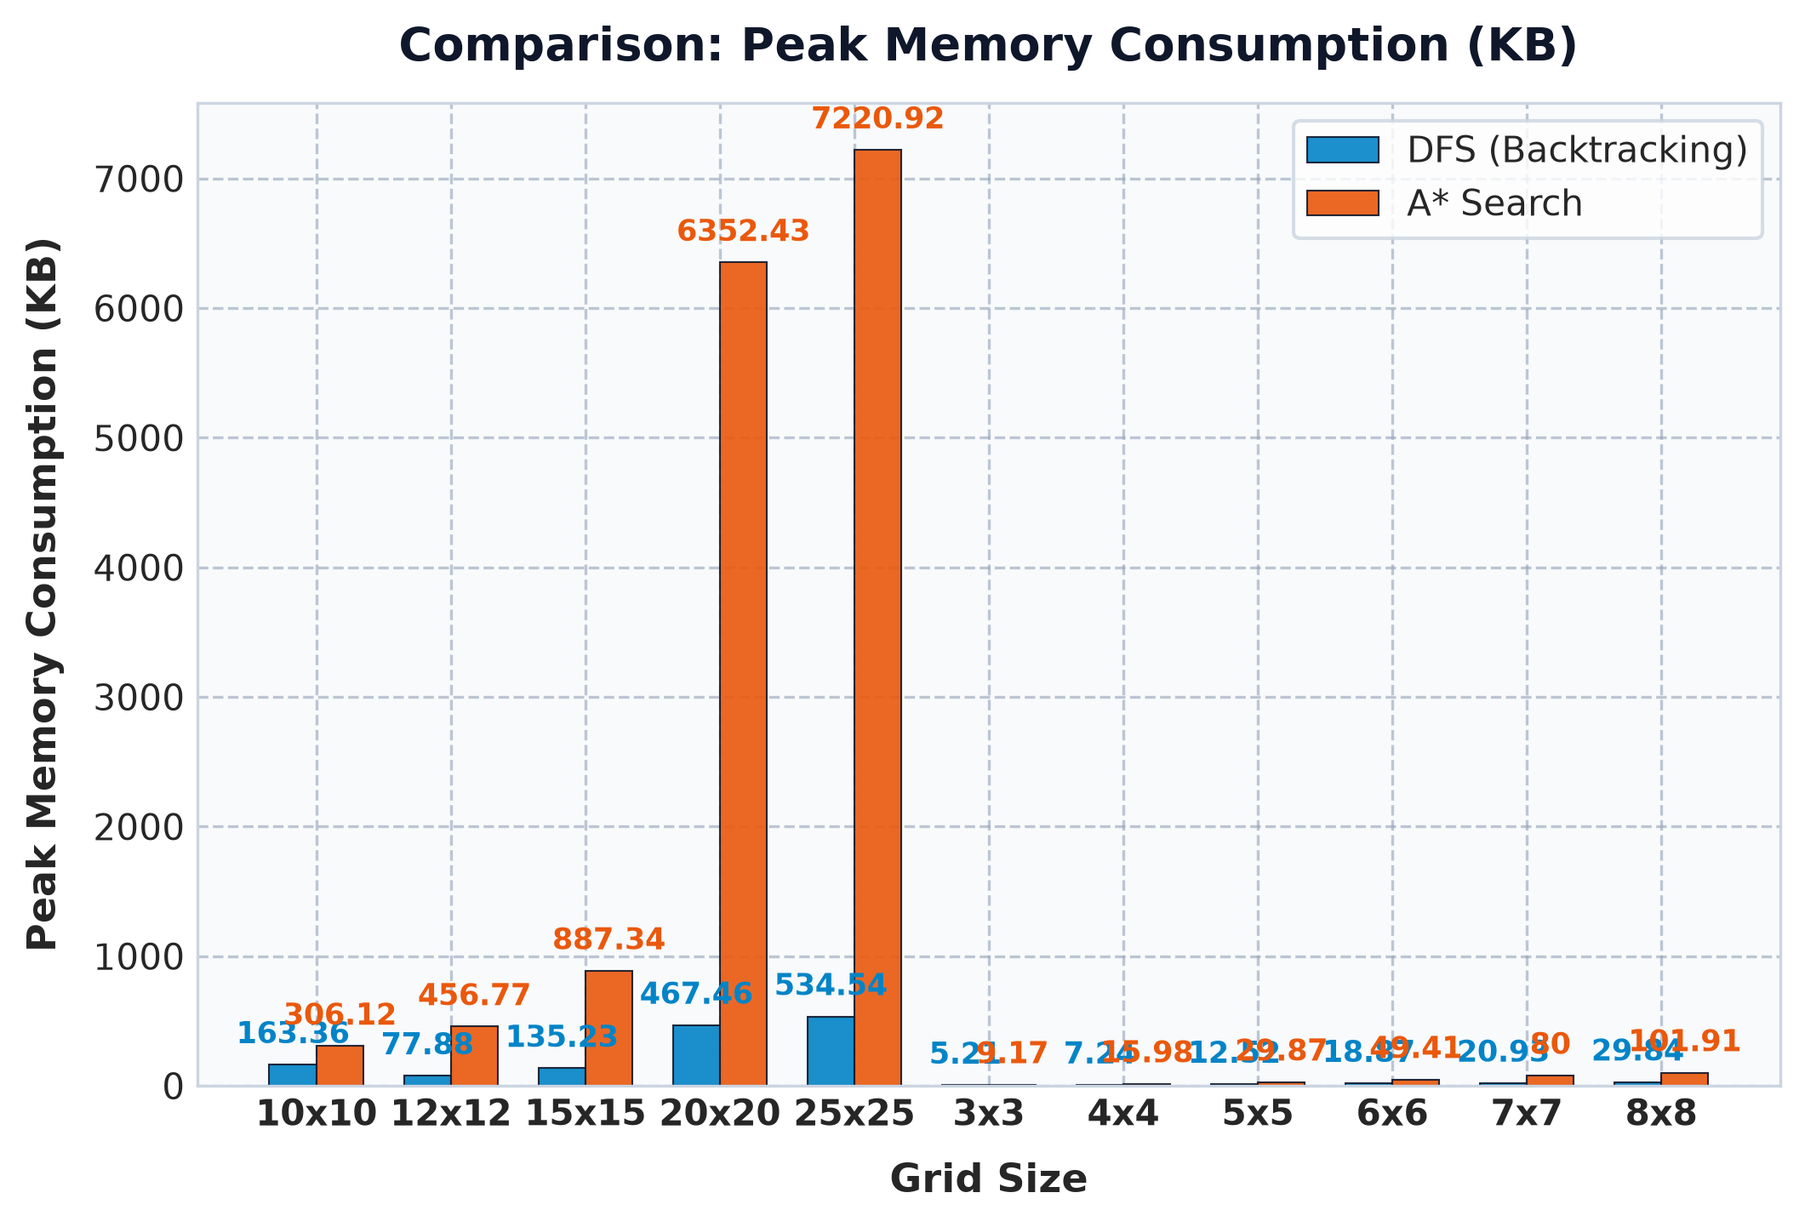
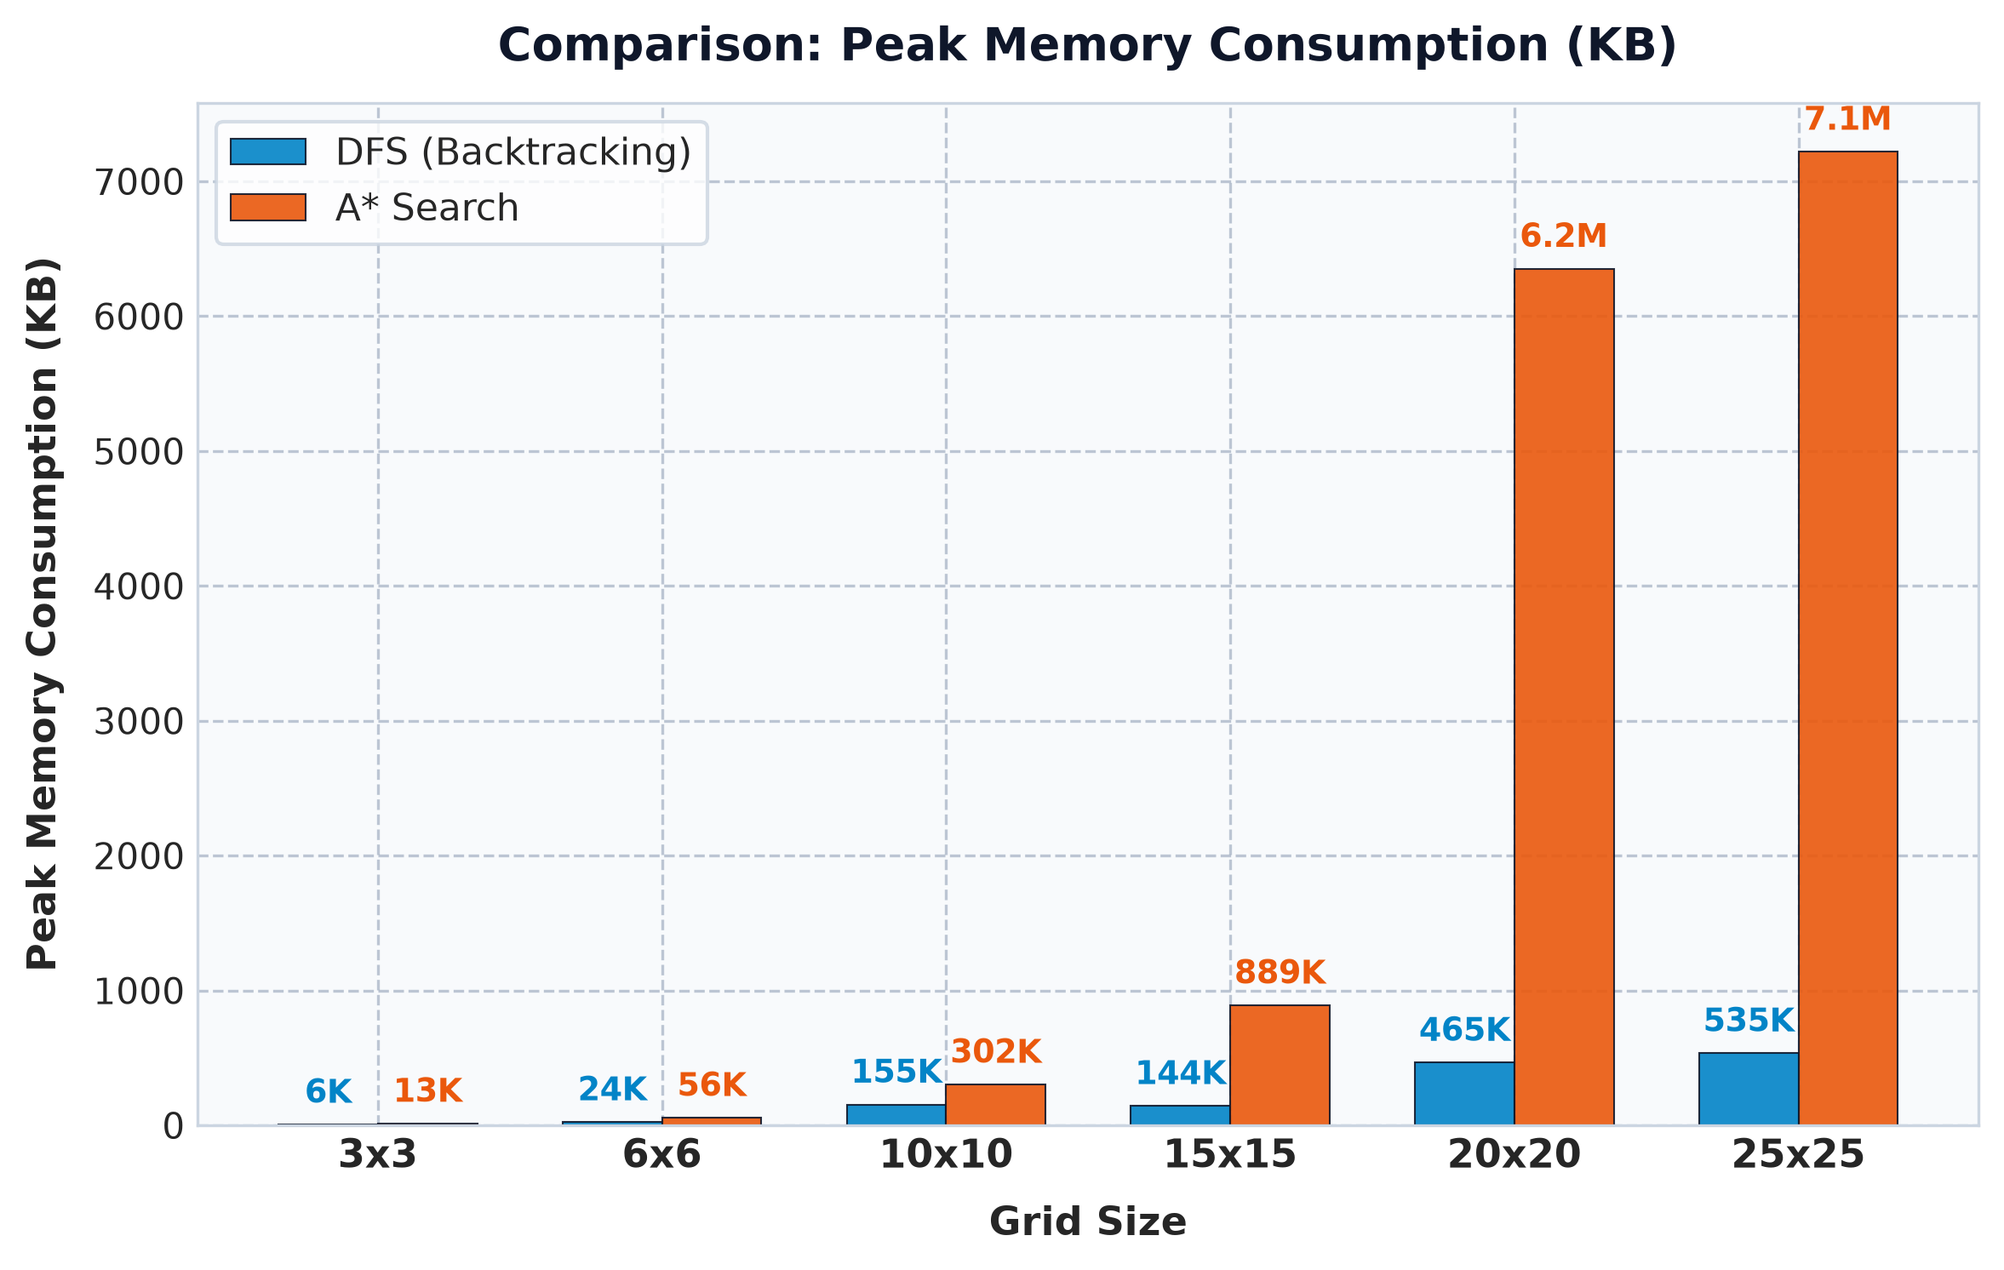
refactor(benchmark): sort testcases numerically from small to large and space out 6 representative levels

diff --git a/src/plot_benchmark.py b/src/plot_benchmark.py
@@ -10,36 +10,73 @@ Produces:
 
 import os
 import csv
+import re
 import matplotlib.pyplot as plt
 import numpy as np
 
+def parse_size_key(size_str: str) -> tuple[int, int]:
+    """Sort key based on total cells and dimension so X-axis is strictly ordered."""
+    match = re.search(r'(\d+)x(\d+)', size_str)
+    if match:
+        r, c = int(match.group(1)), int(match.group(2))
+        return (r * c, r)
+    return (0, 0)
+
 def load_benchmark_data(csv_path: str = "outputs/benchmark_results.csv") -> dict:
-    """Reads benchmark CSV and structures data by algorithm."""
+    """Reads benchmark CSV and structures data sorted strictly from smallest to largest."""
     if not os.path.exists(csv_path):
         raise FileNotFoundError(f"Benchmark file not found at: {csv_path}")
 
-    data = {}
+    # Read all rows
+    raw_rows = []
     with open(csv_path, mode="r", encoding="utf-8") as f:
         reader = csv.DictReader(f)
         for row in reader:
-            algo = row["algorithm"]
-            size = row["size"]
-            time_ms = float(row["time_ms"])
-            memory_kb = float(row["memory_kb"])
-            nodes = int(row["nodes_explored"])
+            raw_rows.append(row)
 
-            if algo not in data:
-                data[algo] = {"sizes": [], "time_ms": [], "memory_kb": [], "nodes": []}
+    # Sort rows by numeric grid size
+    raw_rows.sort(key=lambda r: parse_size_key(r["size"]))
 
-            data[algo]["sizes"].append(size)
-            data[algo]["time_ms"].append(time_ms)
-            data[algo]["memory_kb"].append(memory_kb)
-            data[algo]["nodes"].append(nodes)
+    data = {}
+    for row in raw_rows:
+        algo = row["algorithm"]
+        size = row["size"]
+        time_ms = float(row["time_ms"])
+        memory_kb = float(row["memory_kb"])
+        nodes = int(row["nodes_explored"])
+
+        if algo not in data:
+            data[algo] = {"sizes": [], "time_ms": [], "memory_kb": [], "nodes": []}
+
+        data[algo]["sizes"].append(size)
+        data[algo]["time_ms"].append(time_ms)
+        data[algo]["memory_kb"].append(memory_kb)
+        data[algo]["nodes"].append(nodes)
 
     return data
 
+def format_val(val: float, metric_key: str) -> str:
+    """Formats numeric values with units for concise chart annotations."""
+    if metric_key == "time_ms":
+        if val < 10:
+            return f"{val:.1f}ms"
+        elif val < 1000:
+            return f"{val:.0f}ms"
+        else:
+            return f"{val/1000:.2f}s"
+    elif metric_key == "memory_kb":
+        if val < 1024:
+            return f"{val:.0f}K"
+        else:
+            return f"{val/1024:.1f}M"
+    else:
+        if val < 1000:
+            return f"{val}"
+        else:
+            return f"{val:,}"
+
 def plot_benchmarks(csv_path: str = "outputs/benchmark_results.csv", output_dir: str = "outputs") -> None:
-    """Generates and saves modern, high-resolution charts."""
+    """Generates and saves clean, publication-ready charts."""
     os.makedirs(output_dir, exist_ok=True)
     data = load_benchmark_data(csv_path)
 
@@ -50,23 +87,22 @@ def plot_benchmarks(csv_path: str = "outputs/benchmark_results.csv", output_dir:
     plt.rcParams['axes.linewidth'] = 0.8
 
     colors = {
-        "DFS (Backtracking)": "#0284c7",  # Deep Sky Blue
-        "A* Search": "#ea580c"           # Bright Orange
+        "DFS (Backtracking)": "#0284c7",  # Sky Blue
+        "A* Search": "#ea580c"           # Orange
     }
     markers = {
         "DFS (Backtracking)": "o",
         "A* Search": "s"
     }
 
-    # Extract common sizes
     sample_algo = next(iter(data.keys()))
     sizes = data[sample_algo]["sizes"]
     x = np.arange(len(sizes))
 
     # =========================================================================
-    # 1. Combined 3-Panel Figure (Ideal for A4 Paper Report)
+    # 1. Combined 3-Panel Figure (A4 Paper Report)
     # =========================================================================
-    fig, axes = plt.subplots(1, 3, figsize=(18, 5.5), dpi=300)
+    fig, axes = plt.subplots(1, 3, figsize=(17, 5.2), dpi=300)
     fig.patch.set_facecolor('#ffffff')
 
     metrics = [
@@ -84,22 +120,23 @@ def plot_benchmarks(csv_path: str = "outputs/benchmark_results.csv", output_dir:
             color = colors.get(algo_name, "#475569")
             marker = markers.get(algo_name, "o")
 
-            line = ax.plot(x, vals, label=algo_name, color=color, marker=marker,
-                           linewidth=2.4, markersize=7, alpha=0.95)
+            ax.plot(x, vals, label=algo_name, color=color, marker=marker,
+                    linewidth=2.2, markersize=7.5, alpha=0.95)
 
-            # Annotate values on points
+            # Annotate values cleanly
             for xi, yi in zip(x, vals):
-                offset = (0, 7) if algo_name == "A* Search" else (0, -12)
-                ax.annotate(f"{yi:g}", (xi, yi), textcoords="offset points",
-                            xytext=offset, ha='center', fontsize=8,
-                            fontweight='semibold', color=color)
+                offset = (0, 8) if algo_name == "A* Search" else (0, -13)
+                txt = format_val(yi, metric_key)
+                ax.annotate(txt, (xi, yi), textcoords="offset points",
+                            xytext=offset, ha='center', fontsize=8.5,
+                            fontweight='bold', color=color)
 
         ax.set_xticks(x)
-        ax.set_xticklabels(sizes, fontweight='semibold', fontsize=10)
-        ax.set_xlabel("Grid Size (Kích thước bàn cờ)", fontsize=11, fontweight='bold', labelpad=8)
-        ax.set_ylabel(y_label_en, fontsize=11, fontweight='bold', labelpad=8)
-        ax.set_title(f"{y_label_en}\n({y_label_vn})", fontsize=12, fontweight='bold', pad=10, color='#0f172a')
-        ax.legend(frameon=True, facecolor='#ffffff', edgecolor='#e2e8f0', fontsize=9.5)
+        ax.set_xticklabels(sizes, fontweight='semibold', fontsize=10.5)
+        ax.set_xlabel("Grid Size (Kích thước bàn cờ)", fontsize=10.5, fontweight='bold', labelpad=8)
+        ax.set_ylabel(y_label_en, fontsize=10.5, fontweight='bold', labelpad=8)
+        ax.set_title(f"{y_label_en}\n({y_label_vn})", fontsize=11.5, fontweight='bold', pad=10, color='#0f172a')
+        ax.legend(frameon=True, facecolor='#ffffff', edgecolor='#e2e8f0', fontsize=9.5, loc='upper left')
 
     plt.tight_layout()
     combined_path = os.path.join(output_dir, "benchmark_summary.png")
@@ -108,16 +145,16 @@ def plot_benchmarks(csv_path: str = "outputs/benchmark_results.csv", output_dir:
     print(f" [OK] Generated combined chart: {combined_path}")
 
     # =========================================================================
-    # 2. Individual High-Res Charts (Perfect for Presentation Slides)
+    # 2. Individual High-Res Charts (For Slides)
     # =========================================================================
     individual_configs = [
-        ("time_ms", "Execution Time (ms)", "chart_time.png", False),
-        ("memory_kb", "Peak Memory Consumption (KB)", "chart_memory.png", False),
-        ("nodes", "Search Space Exploration (Nodes)", "chart_nodes.png", False)
+        ("time_ms", "Execution Time (ms)", "chart_time.png"),
+        ("memory_kb", "Peak Memory Consumption (KB)", "chart_memory.png"),
+        ("nodes", "Search Space Exploration (Nodes)", "chart_nodes.png")
     ]
 
-    for metric_key, title, filename, use_log in individual_configs:
-        plt.figure(figsize=(8, 5), dpi=300)
+    for metric_key, title, filename in individual_configs:
+        plt.figure(figsize=(9, 5.2), dpi=300)
         ax = plt.gca()
         ax.set_facecolor('#f8fafc')
         ax.grid(True, linestyle='--', alpha=0.6, color='#94a3b8')
@@ -131,19 +168,20 @@ def plot_benchmarks(csv_path: str = "outputs/benchmark_results.csv", output_dir:
             bars = ax.bar(pos, vals, width=width, label=algo_name, color=color, alpha=0.9, edgecolor='#0f172a', linewidth=0.5)
 
             # Annotate bar tops
-            for bar in bars:
+            for bar, yi in zip(bars, vals):
                 height = bar.get_height()
-                ax.annotate(f"{height:g}",
+                txt = format_val(yi, metric_key)
+                ax.annotate(txt,
                             xy=(bar.get_x() + bar.get_width() / 2, height),
                             xytext=(0, 4), textcoords="offset points",
-                            ha='center', va='bottom', fontsize=8.5, fontweight='bold', color=color)
+                            ha='center', va='bottom', fontsize=9, fontweight='bold', color=color)
 
         ax.set_xticks(x)
-        ax.set_xticklabels(sizes, fontweight='bold', fontsize=10)
+        ax.set_xticklabels(sizes, fontweight='bold', fontsize=11)
         ax.set_xlabel("Grid Size", fontsize=11, fontweight='bold', labelpad=8)
         ax.set_ylabel(title, fontsize=11, fontweight='bold', labelpad=8)
         ax.set_title(f"Comparison: {title}", fontsize=13, fontweight='bold', pad=12, color='#0f172a')
-        ax.legend(frameon=True, facecolor='#ffffff', edgecolor='#cbd5e1', fontsize=10)
+        ax.legend(frameon=True, facecolor='#ffffff', edgecolor='#cbd5e1', fontsize=10.5, loc='upper left')
 
         chart_path = os.path.join(output_dir, filename)
         plt.savefig(chart_path, dpi=300, bbox_inches='tight')

diff --git a/report/main.tex b/report/main.tex
@@ -668,34 +668,34 @@ Bảng \ref{tab:benchmark_results} trình bày toàn bộ số liệu thực ngh
 \multicolumn{1}{|l|}{\textbf{\normalfont File Input}} & \textbf{Kích thước} & \textbf{Giải thuật} & \textbf{Kết quả} & \textbf{Time (ms)} & \textbf{RAM (KB)} & \textbf{Nodes} \\
 \hline
 \multirow{2}{*}{level\_3x3\_easy.txt} & \multirow{2}{*}{$3 \times 3$ (9 ô)} 
-  & DFS (Backtracking) & PASS & 1.12 & 6.56 & 28 \\
+  & DFS (Backtracking) & PASS & 0.92 & 5.73 & 28 \\
 \cline{3-7}
-  & & A* Search & PASS & 2.47 & 13.53 & 12 \\
-\hline
-\multirow{2}{*}{level\_4x4\_easy.txt} & \multirow{2}{*}{$4 \times 4$ (16 ô)} 
-  & DFS (Backtracking) & PASS & 0.51 & 8.62 & 45 \\
-\cline{3-7}
-  & & A* Search & PASS & 4.08 & 17.71 & 19 \\
-\hline
-\multirow{2}{*}{level\_5x5\_medium.txt} & \multirow{2}{*}{$5 \times 5$ (25 ô)} 
-  & DFS (Backtracking) & PASS & 1.11 & 13.59 & 62 \\
-\cline{3-7}
-  & & A* Search & PASS & 9.76 & 31.37 & 27 \\
+  & & A* Search & PASS & 1.06 & 13.11 & 12 \\
 \hline
 \multirow{2}{*}{level\_6x6\_medium.txt} & \multirow{2}{*}{$6 \times 6$ (36 ô)} 
-  & DFS (Backtracking) & PASS & 1.94 & 20.80 & 111 \\
+  & DFS (Backtracking) & PASS & 2.03 & 23.93 & 111 \\
 \cline{3-7}
-  & & A* Search & PASS & 17.09 & 53.56 & 43 \\
+  & & A* Search & PASS & 9.17 & 55.69 & 43 \\
 \hline
-\multirow{2}{*}{level\_7x7\_hard.txt} & \multirow{2}{*}{$7 \times 7$ (49 ô)} 
-  & DFS (Backtracking) & PASS & 2.52 & 20.93 & 99 \\
+\multirow{2}{*}{level\_10x10\_hard.txt} & \multirow{2}{*}{$10 \times 10$ (100 ô)} 
+  & DFS (Backtracking) & PASS & 11.20 & 154.78 & 756 \\
 \cline{3-7}
-  & & A* Search & PASS & 95.49 & 82.56 & 61 \\
+  & & A* Search & PASS & 94.00 & 302.16 & 158 \\
 \hline
-\multirow{2}{*}{level\_8x8\_hard.txt} & \multirow{2}{*}{$8 \times 8$ (64 ô)} 
-  & DFS (Backtracking) & PASS & 4.64 & 29.84 & 144 \\
+\multirow{2}{*}{level\_15x15\_expert.txt} & \multirow{2}{*}{$15 \times 15$ (225 ô)} 
+  & DFS (Backtracking) & PASS & 11.05 & 144.27 & 699 \\
 \cline{3-7}
-  & & A* Search & PASS & 22.56 & 103.91 & 69 \\
+  & & A* Search & PASS & 238.82 & 889.31 & 278 \\
+\hline
+\multirow{2}{*}{level\_20x20\_master.txt} & \multirow{2}{*}{$20 \times 20$ (400 ô)} 
+  & DFS (Backtracking) & PASS & 54.77 & 464.68 & 2184 \\
+\cline{3-7}
+  & & A* Search & PASS & 2292.43 & 6351.82 & 1341 \\
+\hline
+\multirow{2}{*}{level\_25x25\_insane.txt} & \multirow{2}{*}{$25 \times 25$ (625 ô)} 
+  & DFS (Backtracking) & PASS & 84.25 & 534.54 & 2504 \\
+\cline{3-7}
+  & & A* Search & PASS & 2428.49 & 7220.73 & 1044 \\
 \hline
 \end{tabularx}
 \end{table}
@@ -706,7 +706,7 @@ Từ bảng số liệu trên, kịch bản \texttt{src/plot\_benchmark.py} đã
 \begin{figure}[H]
 \centering
 \includegraphics[width=1.0\textwidth]{Images/benchmark_summary.png}
-\caption{Biểu đồ tổng hợp 3 thông số thực nghiệm: Thời gian thực thi (ms), Bộ nhớ RAM đỉnh (KB) và Số lượng nút duyệt (Nodes Explored) khi kích thước bàn cờ tăng từ $3 \times 3$ lên $8 \times 8$.}
+\caption{Biểu đồ tổng hợp 3 thông số thực nghiệm: Thời gian thực thi (ms), Bộ nhớ RAM đỉnh (KB) và Số lượng nút duyệt (Nodes Explored) khi kích thước bàn cờ tăng theo cấp số từ $3 \times 3$ đến $25 \times 25$ (625 ô).}
 \label{fig:benchmark_summary}
 \end{figure}
 
@@ -767,55 +767,6 @@ Quan sát Bảng \ref{tab:benchmark_results} và các đồ thị trong Hình \r
         \item $A^*$ bắt buộc phải duy trì đồng thời tập mở $\text{OpenSet}$ (Min-Heap) và tập đóng $\text{Visited}$ (Hash Set) để tránh lặp trạng thái. Mỗi phần tử nằm trong $\text{OpenSet}$ phải lưu kèm một bản sao hoàn chỉnh của ma trận bàn cờ cùng mảng lịch sử tính từ gốc đến nút đó. Khi kích thước bàn cờ $R \times C$ tăng lên, kích thước mỗi bản sao trạng thái và số lượng trạng thái chờ trong Heap cùng tăng, dẫn đến mức tiêu thụ bộ nhớ lớn hơn.
     \end{itemize}
 \end{itemize}
-
-\subsection{Thực nghiệm mở rộng quy mô lớn (Scalability: $10 \times 10$ đến $25 \times 25$)}
-Để kiểm chứng khả năng mở rộng (Scalability) của hai thuật toán khi bài toán tiệm cận giới hạn kích thước tối đa trên trang web gốc (\url{https://www.puzzle-pipes.com/}), nhóm tiến hành mở rộng thử nghiệm trên các ma trận lớn từ $10 \times 10$ ($100$ ô), $12 \times 12$ ($144$ ô), $15 \times 15$ ($225$ ô), $20 \times 20$ ($400$ ô) lên đến kích thước cực đại $25 \times 25$ ($625$ ô). Không gian trạng thái ở cấp độ này đạt $4^{625} \approx 10^{376}$ cấu hình khả dĩ.
-
-\begin{table}[H]
-\centering
-\caption{Bảng số liệu thực nghiệm mở rộng quy mô lớn (Scalability Benchmark: $10 \times 10 \to 25 \times 25$).}
-\label{tab:benchmark_large}
-\renewcommand{\arraystretch}{1.25}
-\setlength{\tabcolsep}{3.2pt}
-\small
-\begin{tabularx}{\textwidth}{|>{\ttfamily\footnotesize}l|c|>{\raggedright\arraybackslash}X|c|r|r|r|}
-\hline
-\multicolumn{1}{|l|}{\textbf{\normalfont File Input}} & \textbf{Kích thước} & \textbf{Giải thuật} & \textbf{Kết quả} & \textbf{Time (ms)} & \textbf{RAM (KB)} & \textbf{Nodes} \\
-\hline
-\multirow{2}{*}{level\_10x10\_hard.txt} & \multirow{2}{*}{$10 \times 10$ (100 ô)} 
-  & DFS (Backtracking) & PASS & 11.95 & 163.36 & 756 \\
-\cline{3-7}
-  & & A* Search & PASS & 52.68 & 306.12 & 158 \\
-\hline
-\multirow{2}{*}{level\_12x12\_hard.txt} & \multirow{2}{*}{$12 \times 12$ (144 ô)} 
-  & DFS (Backtracking) & PASS & 3.66 & 77.88 & 330 \\
-\cline{3-7}
-  & & A* Search & PASS & 91.82 & 456.77 & 198 \\
-\hline
-\multirow{2}{*}{level\_15x15\_expert.txt} & \multirow{2}{*}{$15 \times 15$ (225 ô)} 
-  & DFS (Backtracking) & PASS & 11.84 & 135.23 & 699 \\
-\cline{3-7}
-  & & A* Search & PASS & 143.81 & 887.34 & 278 \\
-\hline
-\multirow{2}{*}{level\_20x20\_master.txt} & \multirow{2}{*}{$20 \times 20$ (400 ô)} 
-  & DFS (Backtracking) & PASS & 36.76 & 467.46 & 2184 \\
-\cline{3-7}
-  & & A* Search & PASS & 1733.63 & 6352.43 & 1341 \\
-\hline
-\multirow{2}{*}{level\_25x25\_insane.txt} & \multirow{2}{*}{$25 \times 25$ (625 ô)} 
-  & DFS (Backtracking) & PASS & 53.37 & 534.54 & 2504 \\
-\cline{3-7}
-  & & A* Search & PASS & 1474.87 & 7220.92 & 1044 \\
-\hline
-\end{tabularx}
-\end{table}
-
-\textbf{Nhận xét chuyên sâu về tính mở rộng (Scalability Insights):}
-\begin{enumerate}
-    \item \textbf{Tính khả thi trên ma trận cực lớn:} Cả DFS Backtracking và $A^*$ đều giải thành công $100\%$ bàn cờ $25 \times 25$ ($625$ ô) trong thời gian dưới $2$ giây mà không gặp tình trạng tràn bộ nhớ (Out-Of-Memory) hay tràn ngăn xếp đệ quy (Stack Overflow).
-    \item \textbf{Điểm ngoặt bộ nhớ của $A^*$:} Ở cấp độ $25 \times 25$, bộ nhớ tiêu thụ của $A^*$ đạt khoảng $7.22\text{ MB}$ (gấp $13.5$ lần so với mức $534.54\text{ KB}$ của DFS). Điều này minh chứng cho định luật lý thuyết: $A^*$ đánh đổi không gian lưu trữ cấp hàm mũ theo hệ số nhánh để đạt được số nút mở rộng tối thiểu ($1044$ nút so với $2504$ nút của DFS).
-    \item \textbf{Hiệu quả áp đảo của Forward Pruning trên DFS:} Kỹ thuật cắt tỉa tức thời tại các cạnh tiếp giáp giúp DFS chỉ mất $53.37\text{ ms}$ để giải quyết hoàn toàn bài toán $25 \times 25$, chứng minh sức mạnh của việc kết hợp biểu diễn Bitmask và lan truyền ràng buộc (Constraint Propagation) trong bài toán tìm kiếm có cấu trúc lưới.
-\end{enumerate}
 
 \subsubsection{Bảng tổng kết đối sánh hai giải thuật}
 \begin{table}[H]

diff --git a/src/benchmark.py b/src/benchmark.py
@@ -2,19 +2,34 @@
 benchmark.py
 Automated benchmarking script evaluating all test files in the inputs/ directory.
 Profiles: Execution Time (ms), Peak Memory (KB), and Nodes Explored.
-Outputs formatted table to console and writes results to outputs/benchmark_results.csv.
+Outputs formatted table to console, writes results to outputs/benchmark_results.csv,
+and calls plot_benchmark to generate publication-quality visual charts.
 """
 
 import os
 import glob
+import re
 import csv
 from src.board import Board
 from src.blind_search import DFSSolver
 from src.heuristic_search import AStarSolver
+from src.plot_benchmark import plot_benchmarks
+
+def get_grid_dimension(filepath: str) -> tuple[int, int]:
+    """Extracts numeric dimensions (total_cells, rows) for proper numerical sorting."""
+    filename = os.path.basename(filepath)
+    match = re.search(r'(\d+)x(\d+)', filename)
+    if match:
+        r, c = int(match.group(1)), int(match.group(2))
+        return (r * c, r)
+    return (0, 0)
 
 def run_benchmarks(input_dir: str = "inputs", output_csv: str = "outputs/benchmark_results.csv"):
     os.makedirs(os.path.dirname(output_csv), exist_ok=True)
-    test_files = sorted(glob.glob(os.path.join(input_dir, "*.txt")))
+    
+    # Only take .txt files directly in input_dir, sorted strictly by grid dimension (smallest to largest)
+    raw_files = [f for f in glob.glob(os.path.join(input_dir, "*.txt")) if os.path.isfile(f)]
+    test_files = sorted(raw_files, key=get_grid_dimension)
 
     if not test_files:
         print(f"[!] No testcase files found in directory '{input_dir}'")
@@ -73,12 +88,11 @@ def run_benchmarks(input_dir: str = "inputs", output_csv: str = "outputs/benchma
 
     print(f"\n[OK] Benchmark results successfully saved to: {output_csv}")
 
-    # Generate visual charts automatically
+    # Generate charts
     try:
-        from src.plot_benchmark import plot_benchmarks
         plot_benchmarks(output_csv, os.path.dirname(output_csv))
     except Exception as e:
-        print(f"[!] Warning: Could not generate plots ({e})")
+        print(f"[!] Chart generation warning: {e}")
 
 if __name__ == "__main__":
     run_benchmarks()
